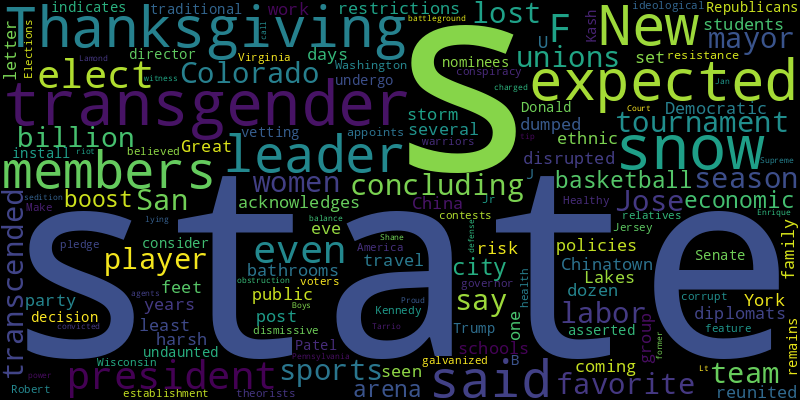
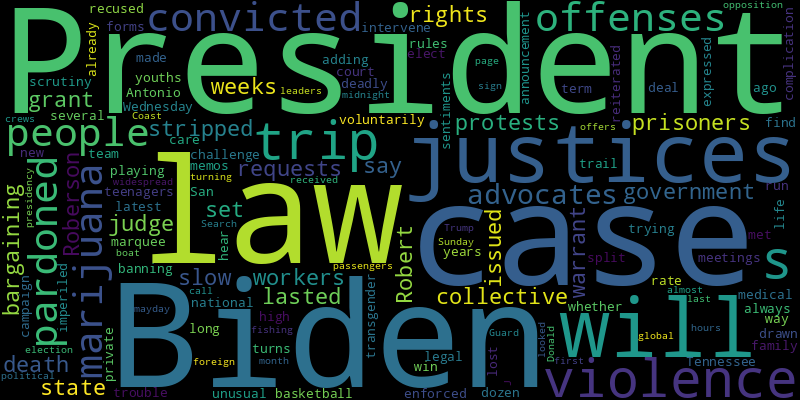
chore(bot): 👻 auto commit

diff --git a/README.md b/README.md
@@ -2,41 +2,41 @@
 Auto RSS New York Times and Generate Word Cloud
 
 ## New York Times Global News
-* Criminals turn college campuses into recruitment hubs, recruiting chemistry students in Mexico with big paydays.
-* The mass slaying of West African soldiers by colonial forces at the end of World War II in Senegal remains shrouded in secrecy. But Senegal’s new government won’t abide the mystery.
-* When President Biden visits the country this week, he is expected to highlight a largely overlooked bond between Angola and the United States that was born out of the trans-Atlantic slave trade.
-* Forces opposed to President Bashar al-Assad have captured the Aleppo airport and are attacking the western city of Hama, according to local officials and a Britain-based war monitor.
-* The comments by Moshe Yaalon were swiftly denied and condemned by allies of Prime Minister Benjamin Netanyahu of Israel, who said that they would hurt the country and help its enemies.
-* At one level, the vote was an endorsement of continuity, but the stability in Ireland’s political center ground masked volatility on the fringes.
-* The government’s decision to suspend its bid for European Union membership has driven thousands of protesters into the streets.
-* Hamas’s weakened position could leave the territory without any governing institutions.
-* The end of Michel Barnier’s government looks inevitable, even imminent, and would add to the country’s political malaise. The only question seems to be: How long can he last?
-* Lai Ching-te is looking to shore up support from three island nations that are among a dwindling number to keep diplomatic ties with Taiwan.
+* In recent months, soldiers have demolished more than 600 buildings to create a buffer area and expanded a network of bases, a New York Times analysis of satellite imagery and video footage shows.
+* In just a few days, a patchwork of rebel forces has seized control of a broad stretch of land in the west and northwest of Syria. But it’s unclear just how much support Syria’s weakened allies can provide.
+* For days, pro-Western Georgians have clashed with police over the government’s plan to suspend plans for European Union membership.
+* President-elect Donald J. Trump said in a social media post on Monday that the hostages must be released before his inauguration in January.
+* Canada is losing its permafrost to climate change. The Indigenous residents of Tuktoyaktuk know they’ll have to move but don’t agree on when.
+* Both sides have accused each other of violating the deal; Hezbollah fired into Israel for the first time since the truce took effect, and Israel responded with airstrikes.
+* A groundbreaking law, which gives some sex workers greater labor protections and social benefits than similar legislation elsewhere in the world, is now in effect in the European country.
+* In a landmark case, a court ruled that the women, now in their 70s and 80s, who were taken from their parents in Belgian Congo, were victims of a crime against humanity.
+* The slowdown is worrying for the Kremlin but not serious enough to significantly hobble its war effort.
+* President-elect Donald J. Trump has selected Mr. Boulos, the businessman and father-in-law of Mr. Trump’s daughter, as a senior adviser on Arab and Middle Eastern affairs.
 
 ![Global](./global.png)
 ## New York Times United States News
-* The San Jose State women’s team, which has a transgender player, lost to the tournament favorite Colorado State, concluding a season that transcended sports.
-* The mayor and labor unions say the $1.3 billion basketball arena would be an economic boost. But the city acknowledges that Chinatown could be at risk.
-* The storm dumped several feet of snow and disrupted post-Thanksgiving travel in the Great Lakes states and New York. More snow is expected in the coming days.
-* The state is one of at least a dozen states to set restrictions on bathrooms for transgender students at public schools.
-* On Thanksgiving eve, U.S. diplomats reunited family members who had not seen each other in years because of China’s harsh policies on the ethnic group.
-* In a letter, the Democratic leader said members of his party would work with Republicans to consider the president-elect’s nominees — but asserted they should undergo traditional Senate vetting.
-* President-elect Donald J. Trump’s decision to install Kash Patel as F.B.I. director indicates that he remains undaunted by Washington resistance as he appoints ideological warriors, conspiracy theorists and even relatives.
-* Some voters galvanized by Robert F. Kennedy Jr.’s pledge to “Make America Healthy Again” said they believed the health establishment was dismissive and even corrupt.
-* Virginia and New Jersey feature contests for governor. Elections in Wisconsin and Pennsylvania could tip the power balance on the Supreme Court in those battleground states.
-* Lt. Shane Lamond, charged with obstruction and lying to agents, is expected to call Enrique Tarrio, the former Proud Boys leader who was convicted of sedition over the Jan. 6 riot, as a defense witness.
+* President Biden has pardoned people convicted of some marijuana offenses, but advocates for prisoners say he has been slow to grant other requests.
+* The 2011 law stripped most government workers in the state of collective bargaining rights and set off protests that lasted weeks.
+* The judge who issued a death warrant for Robert Roberson voluntarily recused herself, adding the latest legal complication to a case that has drawn national scrutiny.
+* When we met them a dozen years ago, they were teenagers in trouble, playing for a basketball team that always lost. Did they find a way to win at life?
+* On Wednesday, the justices will hear the marquee case of the term, a challenge to a Tennessee law banning several forms of medical care for transgender youths.
+* In private meetings and memos, the justices made new rules for themselves — then split on whether they could, or should, be enforced.
+* San Antonio has long had a high rate of family violence. An unusual court is trying to intervene before the violence turns deadly.
+* The announcement reiterated sentiments the president-elect expressed on the campaign trail, and further imperiled a deal that had already run into widespread political opposition.
+* The trip will be Donald J. Trump’s first foreign trip since last month’s election and offers a sign that global leaders are turning the page on the Biden presidency.
+* The Coast Guard received a mayday call from a fishing boat on Sunday just after midnight. Search crews looked for its passengers for almost 24 hours.
 
 ![US](./usnews.png)
 ## New York Times Asia News
+* The move comes a day after the Biden administration expanded curbs on the sale of advanced American technology to China.
+* He had been hailed by Chinese state media as a model for his efforts to promote Beijing’s interests in the United States. He was in fact an F.B.I. informant.
+* Two Americans and a Canadian were climbing Mount Cook before failing to show up to a prearranged flight on Monday.
+* Plus, Free North Korea Radio.
 * On Thanksgiving eve, U.S. diplomats reunited family members who had not seen each other in years because of China’s harsh policies on the ethnic group.
 * Kim Seongmin, who fled to South Korea in the 1990s, broadcasts to his homeland twice a day, delivering the kind of information Pyongyang is trying hard to suppress.
 * Plus, the vast network of undersea internet cables.
 * The sentencing of Dong Yuyu, a former Harvard Nieman fellow, signals that officials consider some exchanges between Chinese citizens and foreigners to be espionage.
 * Lai Ching-te is looking to shore up support from three island nations that are among a dwindling number to keep diplomatic ties with Taiwan.
 * We tracked $86 million in U.S. money that was supposed to go toward panda conservation in China.
-* A Times investigation found that zoos knew conservation money went toward apartment buildings and roads. But they wanted to keep displaying pandas, so nobody looked too closely.
-* Dong Yuyu, who has written articles critical of the Communist Party, was arrested in 2022 while having lunch with a Japanese diplomat.
-* Plus, the gangs stealing hiring exams in India.
-* India and Bangladesh have traded angry accusations about Bangladesh’s Hindu minority.
 
 ![Asian](./asian.png)

diff --git a/archive/2024-12-02.md b/archive/2024-12-02.md
@@ -1,0 +1,42 @@
+# NewsArchive
+Auto RSS New York Times and Generate Word Cloud
+
+## New York Times Global News
+* Criminals turn college campuses into recruitment hubs, recruiting chemistry students in Mexico with big paydays.
+* The mass slaying of West African soldiers by colonial forces at the end of World War II in Senegal remains shrouded in secrecy. But Senegal’s new government won’t abide the mystery.
+* When President Biden visits the country this week, he is expected to highlight a largely overlooked bond between Angola and the United States that was born out of the trans-Atlantic slave trade.
+* Forces opposed to President Bashar al-Assad have captured the Aleppo airport and are attacking the western city of Hama, according to local officials and a Britain-based war monitor.
+* The comments by Moshe Yaalon were swiftly denied and condemned by allies of Prime Minister Benjamin Netanyahu of Israel, who said that they would hurt the country and help its enemies.
+* At one level, the vote was an endorsement of continuity, but the stability in Ireland’s political center ground masked volatility on the fringes.
+* The government’s decision to suspend its bid for European Union membership has driven thousands of protesters into the streets.
+* Hamas’s weakened position could leave the territory without any governing institutions.
+* The end of Michel Barnier’s government looks inevitable, even imminent, and would add to the country’s political malaise. The only question seems to be: How long can he last?
+* Lai Ching-te is looking to shore up support from three island nations that are among a dwindling number to keep diplomatic ties with Taiwan.
+
+![Global](./global.png)
+## New York Times United States News
+* The San Jose State women’s team, which has a transgender player, lost to the tournament favorite Colorado State, concluding a season that transcended sports.
+* The mayor and labor unions say the $1.3 billion basketball arena would be an economic boost. But the city acknowledges that Chinatown could be at risk.
+* The storm dumped several feet of snow and disrupted post-Thanksgiving travel in the Great Lakes states and New York. More snow is expected in the coming days.
+* The state is one of at least a dozen states to set restrictions on bathrooms for transgender students at public schools.
+* On Thanksgiving eve, U.S. diplomats reunited family members who had not seen each other in years because of China’s harsh policies on the ethnic group.
+* In a letter, the Democratic leader said members of his party would work with Republicans to consider the president-elect’s nominees — but asserted they should undergo traditional Senate vetting.
+* President-elect Donald J. Trump’s decision to install Kash Patel as F.B.I. director indicates that he remains undaunted by Washington resistance as he appoints ideological warriors, conspiracy theorists and even relatives.
+* Some voters galvanized by Robert F. Kennedy Jr.’s pledge to “Make America Healthy Again” said they believed the health establishment was dismissive and even corrupt.
+* Virginia and New Jersey feature contests for governor. Elections in Wisconsin and Pennsylvania could tip the power balance on the Supreme Court in those battleground states.
+* Lt. Shane Lamond, charged with obstruction and lying to agents, is expected to call Enrique Tarrio, the former Proud Boys leader who was convicted of sedition over the Jan. 6 riot, as a defense witness.
+
+![US](./usnews.png)
+## New York Times Asia News
+* On Thanksgiving eve, U.S. diplomats reunited family members who had not seen each other in years because of China’s harsh policies on the ethnic group.
+* Kim Seongmin, who fled to South Korea in the 1990s, broadcasts to his homeland twice a day, delivering the kind of information Pyongyang is trying hard to suppress.
+* Plus, the vast network of undersea internet cables.
+* The sentencing of Dong Yuyu, a former Harvard Nieman fellow, signals that officials consider some exchanges between Chinese citizens and foreigners to be espionage.
+* Lai Ching-te is looking to shore up support from three island nations that are among a dwindling number to keep diplomatic ties with Taiwan.
+* We tracked $86 million in U.S. money that was supposed to go toward panda conservation in China.
+* A Times investigation found that zoos knew conservation money went toward apartment buildings and roads. But they wanted to keep displaying pandas, so nobody looked too closely.
+* Dong Yuyu, who has written articles critical of the Communist Party, was arrested in 2022 while having lunch with a Japanese diplomat.
+* Plus, the gangs stealing hiring exams in India.
+* India and Bangladesh have traded angry accusations about Bangladesh’s Hindu minority.
+
+![Asian](./asian.png)
